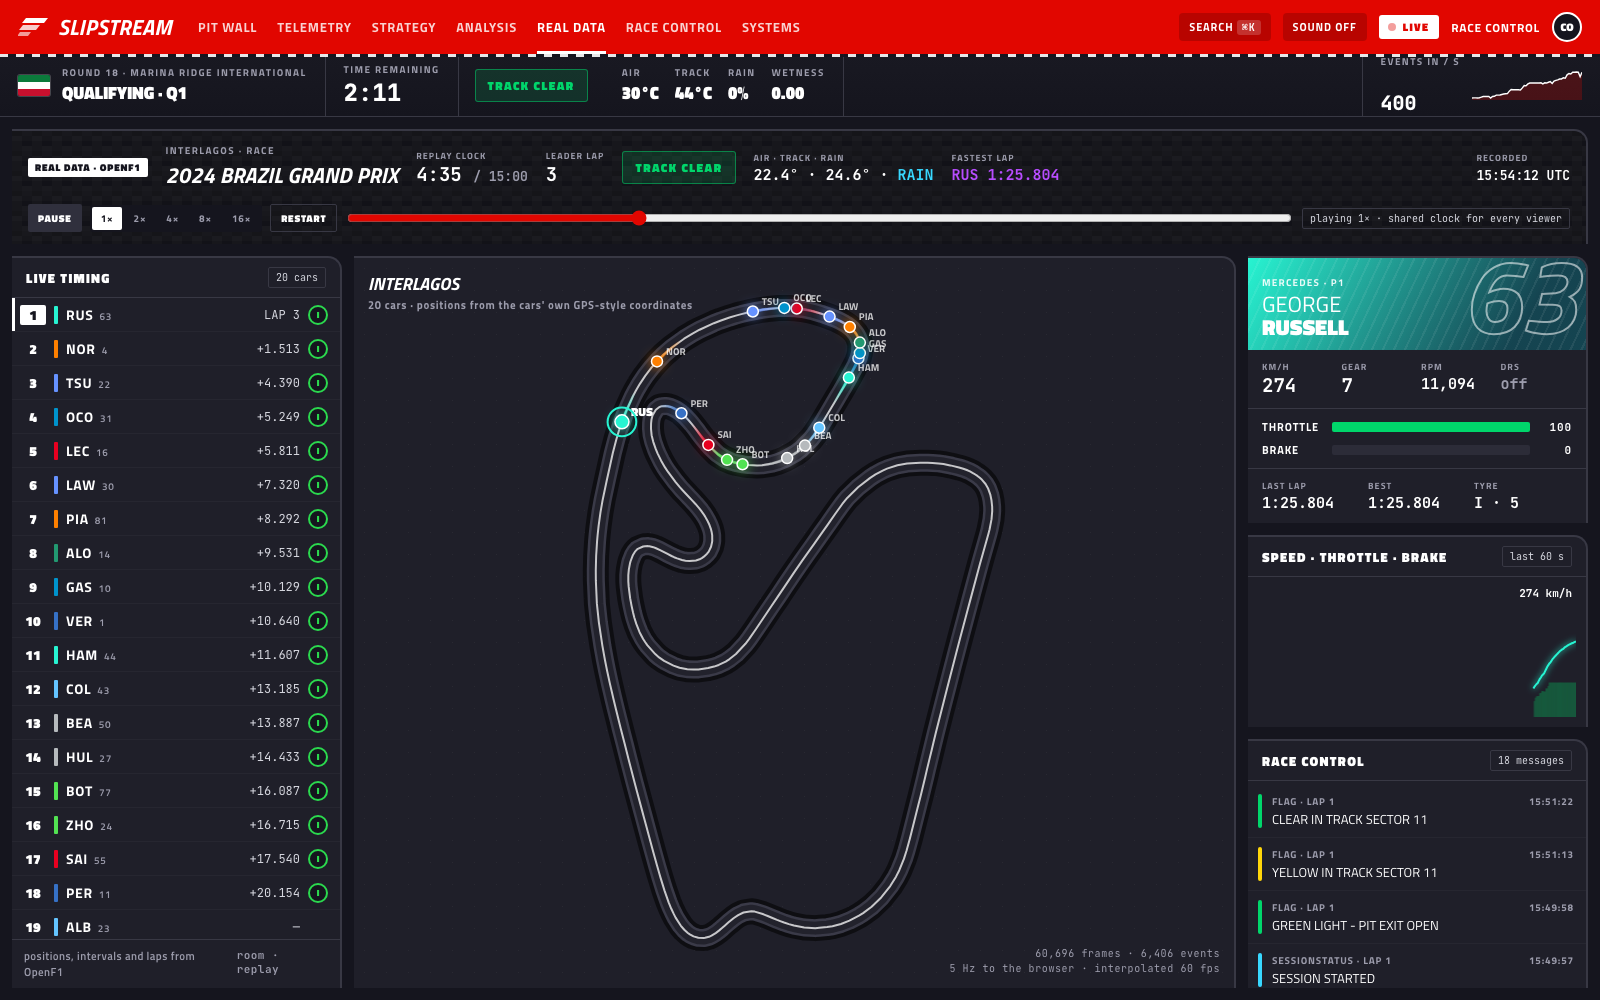
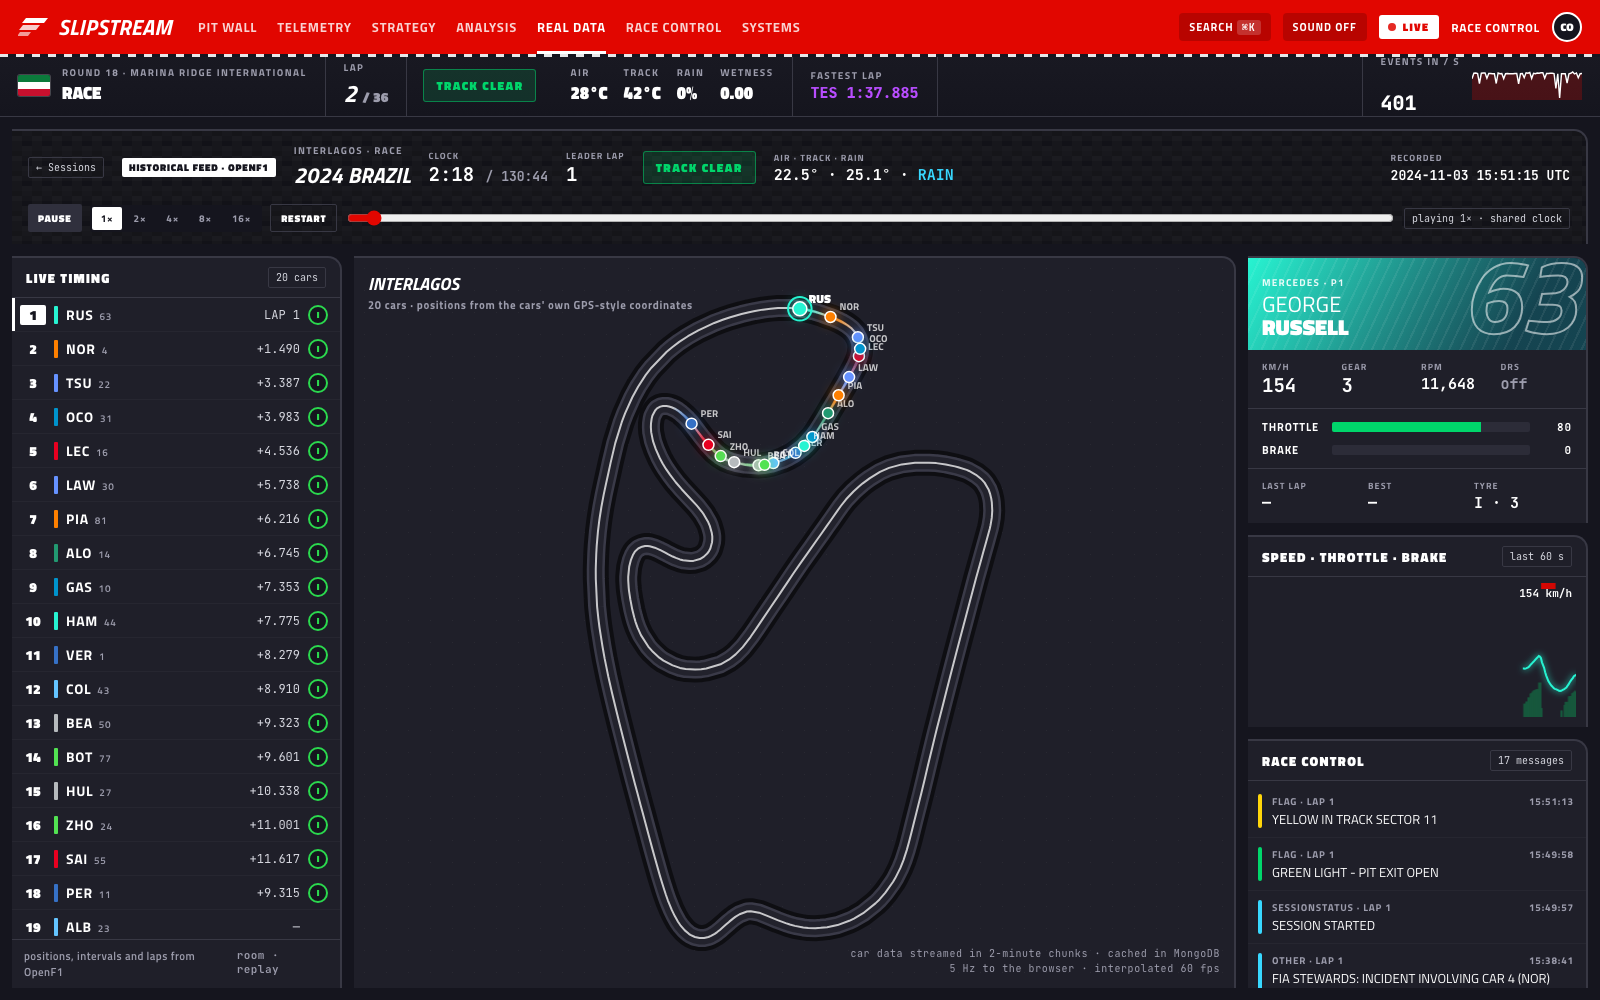
README screenshots for the session browser and a full-race channel

diff --git a/README.md b/README.md
@@ -198,6 +198,9 @@ Idle channels close themselves.
     <td width="50%"><img src="docs/images/practice.png" alt="Practice: classification by best lap with cars in the garage and pit lane, and the run monitor tagging out and push laps"><br><sub>Practice: cars run programmes from the garage, and the run monitor tags each lap.</sub></td>
   </tr>
   <tr>
+    <td colspan="2"><img src="docs/images/real-sessions.png" alt="Session browser: every Formula 1 session of the season with the live-feed card, channels being watched and sessions stored in MongoDB"><br><sub>Pick any session since 2023; the live feed lights up with an OpenF1 key.</sub></td>
+  </tr>
+  <tr>
     <td colspan="2"><img src="docs/images/real-data.png" alt="Real data replay of the 2024 Brazilian Grand Prix: live timing with real drivers on intermediates, the Interlagos circuit drawn from car coordinates, George Russell's live telemetry and the race-control message feed"><br><sub>Real data: the full wet 2024 Brazilian GP fed through the historical feed on a shared clock, with live timing, every car on the circuit, driver telemetry and race-control messages.</sub></td>
   </tr>
   <tr>
